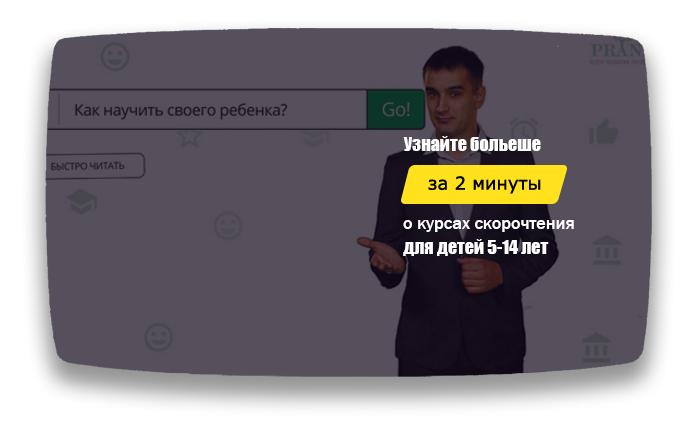
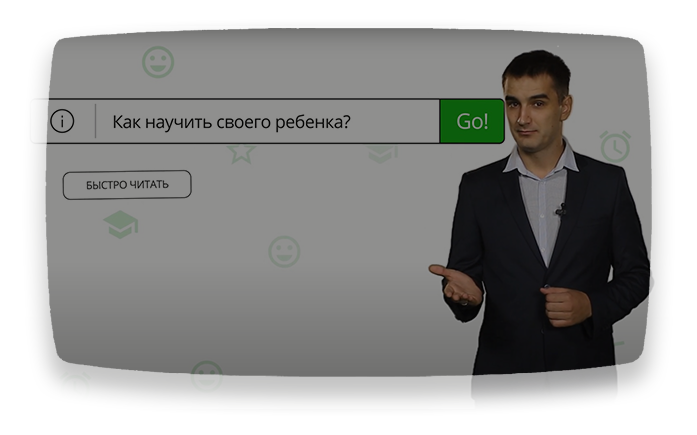
іі

diff --git a/thank-you.html b/thank-you.html
@@ -1,17 +1,15 @@
 <!DOCTYPE html>
 <html lang="en">
 <head>
-    <title>Скорочтение и Развитие памяти - Thank you</title>
+    <title>Курси читання для дітей 5-14 років. Онлайн</title>
     <meta charset="UTF-8">
+    <link href="thank-you.css" rel="stylesheet">
     <style>
         body{
             margin: 0 auto;
             display: flex;
             align-items: center;
             justify-content: center;
-        }
-        img{
-           width: 100%;
         }
     </style>
     <!-- Global site tag (gtag.js) - Google Analytics -->
@@ -27,8 +25,53 @@
             gtag('event', location.pathname, {
                 'event_category': 'Новый посетитель'});}, 15000);
     </script>
+
+    <!-- Google tag (gtag.js) -->
+    <script async src="https://www.googletagmanager.com/gtag/js?id=G-5GE7ZW63FZ"></script>
+    <script>
+        window.dataLayer = window.dataLayer || [];
+        function gtag() { dataLayer.push(arguments); }
+        gtag('js', new Date());
+
+        gtag('config', 'G-5GE7ZW63FZ');
+    </script>
+    <!-- END Google tag (gtag.js) -->
+    
+<!-- Google tag (gtag.js) -->
+<script async src="https://www.googletagmanager.com/gtag/js?id=AW-825875884"></script>
+<script>
+    window.dataLayer = window.dataLayer || [];
+    function gtag() { dataLayer.push(arguments); }
+    gtag('js', new Date());
+
+    gtag('config', 'AW-825875884'); 
+</script>
+<!-- END Google tag (gtag.js) -->
+
+    <!-- Meta Pixel Code -->
+    <script>
+        !function (f, b, e, v, n, t, s) {
+            if (f.fbq) return; n = f.fbq = function () {
+                n.callMethod ?
+                    n.callMethod.apply(n, arguments) : n.queue.push(arguments)
+            };
+            if (!f._fbq) f._fbq = n; n.push = n; n.loaded = !0; n.version = '2.0';
+            n.queue = []; t = b.createElement(e); t.async = !0;
+            t.src = v; s = b.getElementsByTagName(e)[0];
+            s.parentNode.insertBefore(t, s)
+        }(window, document, 'script',
+            'https://connect.facebook.net/en_US/fbevents.js');
+        fbq('init', '1006779967400024');
+        fbq('track', 'PageView');
+    </script>
+    <noscript><img height="1" width="1" style="display:none"
+            src="https://www.facebook.com/tr?id=1006779967400024&ev=PageView&noscript=1" /></noscript>
+    <!-- End Meta Pixel Code -->
 </head>
 <body>
+<div id="img">
 <img  src="./build/thank-you.jpg">
+<a id="insta" href="https://www.instagram.com/skorochtenie_prana" ></a>
+</div>
 </body>
 </html>

diff --git a/build/slider.js b/build/slider.js
@@ -47,16 +47,20 @@ function hideLeft(elements) {
 
 
 //sender to  mail
-function sendAnimators() {
-    let name = "аниматоры";
-    let phone = document.getElementById("telephone2");
+function sendEmailFor(idPhone, idName) {
+    let name = "";
+    let phone = document.getElementById(idPhone).value;
+    if (idName==='none')
+        name="no added name"
+    else
+        name = document.getElementById(idName).value;
     send(name, phone, "аниматоры");
 }
 
 
 function send(name, phone, from) {
     let data =
-        'name="' + name.value + '"&phone="' + phone.value + '"&from="' + from + '"';
+        'name="' + name + '"&phone="' + phone + '"&from="' + from + '"';
     const xhr = new XMLHttpRequest();
     xhr.open("POST", "sendMail.php");
     xhr.setRequestHeader("Content-Type", "application/x-www-form-urlencoded");
@@ -78,6 +82,4 @@ function send(name, phone, from) {
     };
     xhr.send(data);
 
-    name.value = "";
-    phone.value = "";
 }

diff --git a/sendMail.php b/sendMail.php
@@ -14,14 +14,25 @@
     }
     
 
-    $message = "имя:".$name."\r\nтел:".$phone."\r\n".$fromForm;
+//    $message = "имя:".$name."\r\nтел:".$phone."\r\n".$fromForm;
 
-    $to = 'leoshowdp@gmail.com';
-    $subject = "Заявка c сайта";
-    $headers = 'From: Leo web';
+    $message = '<html><body>';
+    $message .= '<img  style="margin-left: 90px;margin-bottom: 20px; margin-top: 20px;" src="http://prana.dp.ua/if/build/prana-club-logo.png" alt="prana.dp.ua" />';
+    $message .= '<div style="font-size: 16px; margin-bottom: 10px; color: #555"><strong>Новый желающий научится читать быстрее скорости света!</strong></div>';
+    $message .= '<table rules="all" style=" background-color:#FAFAFA; border: 1px dotted #EBEBEB;" cellpadding="10">';
+    if(isset($name) && $name != NULL) $message .= "<tr ><td><strong>Имя потенциального клиента:</strong> </td><td>" . $name . "</td></tr>";
+    if(isset($phone) && $phone != NULL) $message .= "<tr><td><strong>Телефон:</strong> </td><td>" . $phone . "</td></tr>";
+    $message .= "</table>";
+    $message .= '<div style="font-size: 16px; margin-top: 20px; margin-bottom: 10px; color: #555"><a href="'.$_SERVER["SERVER_NAME"].' style="font-size: 12px;">'.$_SERVER["SERVER_NAME"].'</a></div>';
+    $message .= "</body></html>";
 
-    mail($to, $subject, $message, $headers);
+    $mail = 'prana.ukraine.online@gmail.com';
+    $subject = "Заявка c prana.dp.ua";
+    $headers = "From: ".$name." <".$mail.">". "\r\n";
+    $headers .= "Content-type:text/html;charset=utf-8\r\n";
+
+    mail($mail, $subject, $message, $headers);
 
 
-    echo "fire ".$name." ".$phone." ".$fromForm;
+    echo "fire ".$name." ".$phone." ".$mail;
 ?>

diff --git a/form-handler.php b/form-handler.php
@@ -1,16 +1,13 @@
 <?php
 
 $post = (!empty($_POST)) ? true : false;
-
 if($post)
 {
 $phone = trim($_POST['phone']);
 $name = htmlspecialchars($_POST['name']);
 $error = '';
 $to="info@prana.dp.ua";
-$subject="Дети - мобильный";
-
- 
+$subject="Prana IF";
     $message = '<html><body>';
     $message .= '<img  style="margin-left: 90px;margin-bottom: 20px; margin-top: 20px;" src="http://prana.dp.ua/if/build/prana-club-logo.png" alt="prana.dp.ua" />';
     $message .= '<div style="font-size: 16px; margin-bottom: 10px; color: #555"><strong>Дети 5-14лет:</strong></div>';
